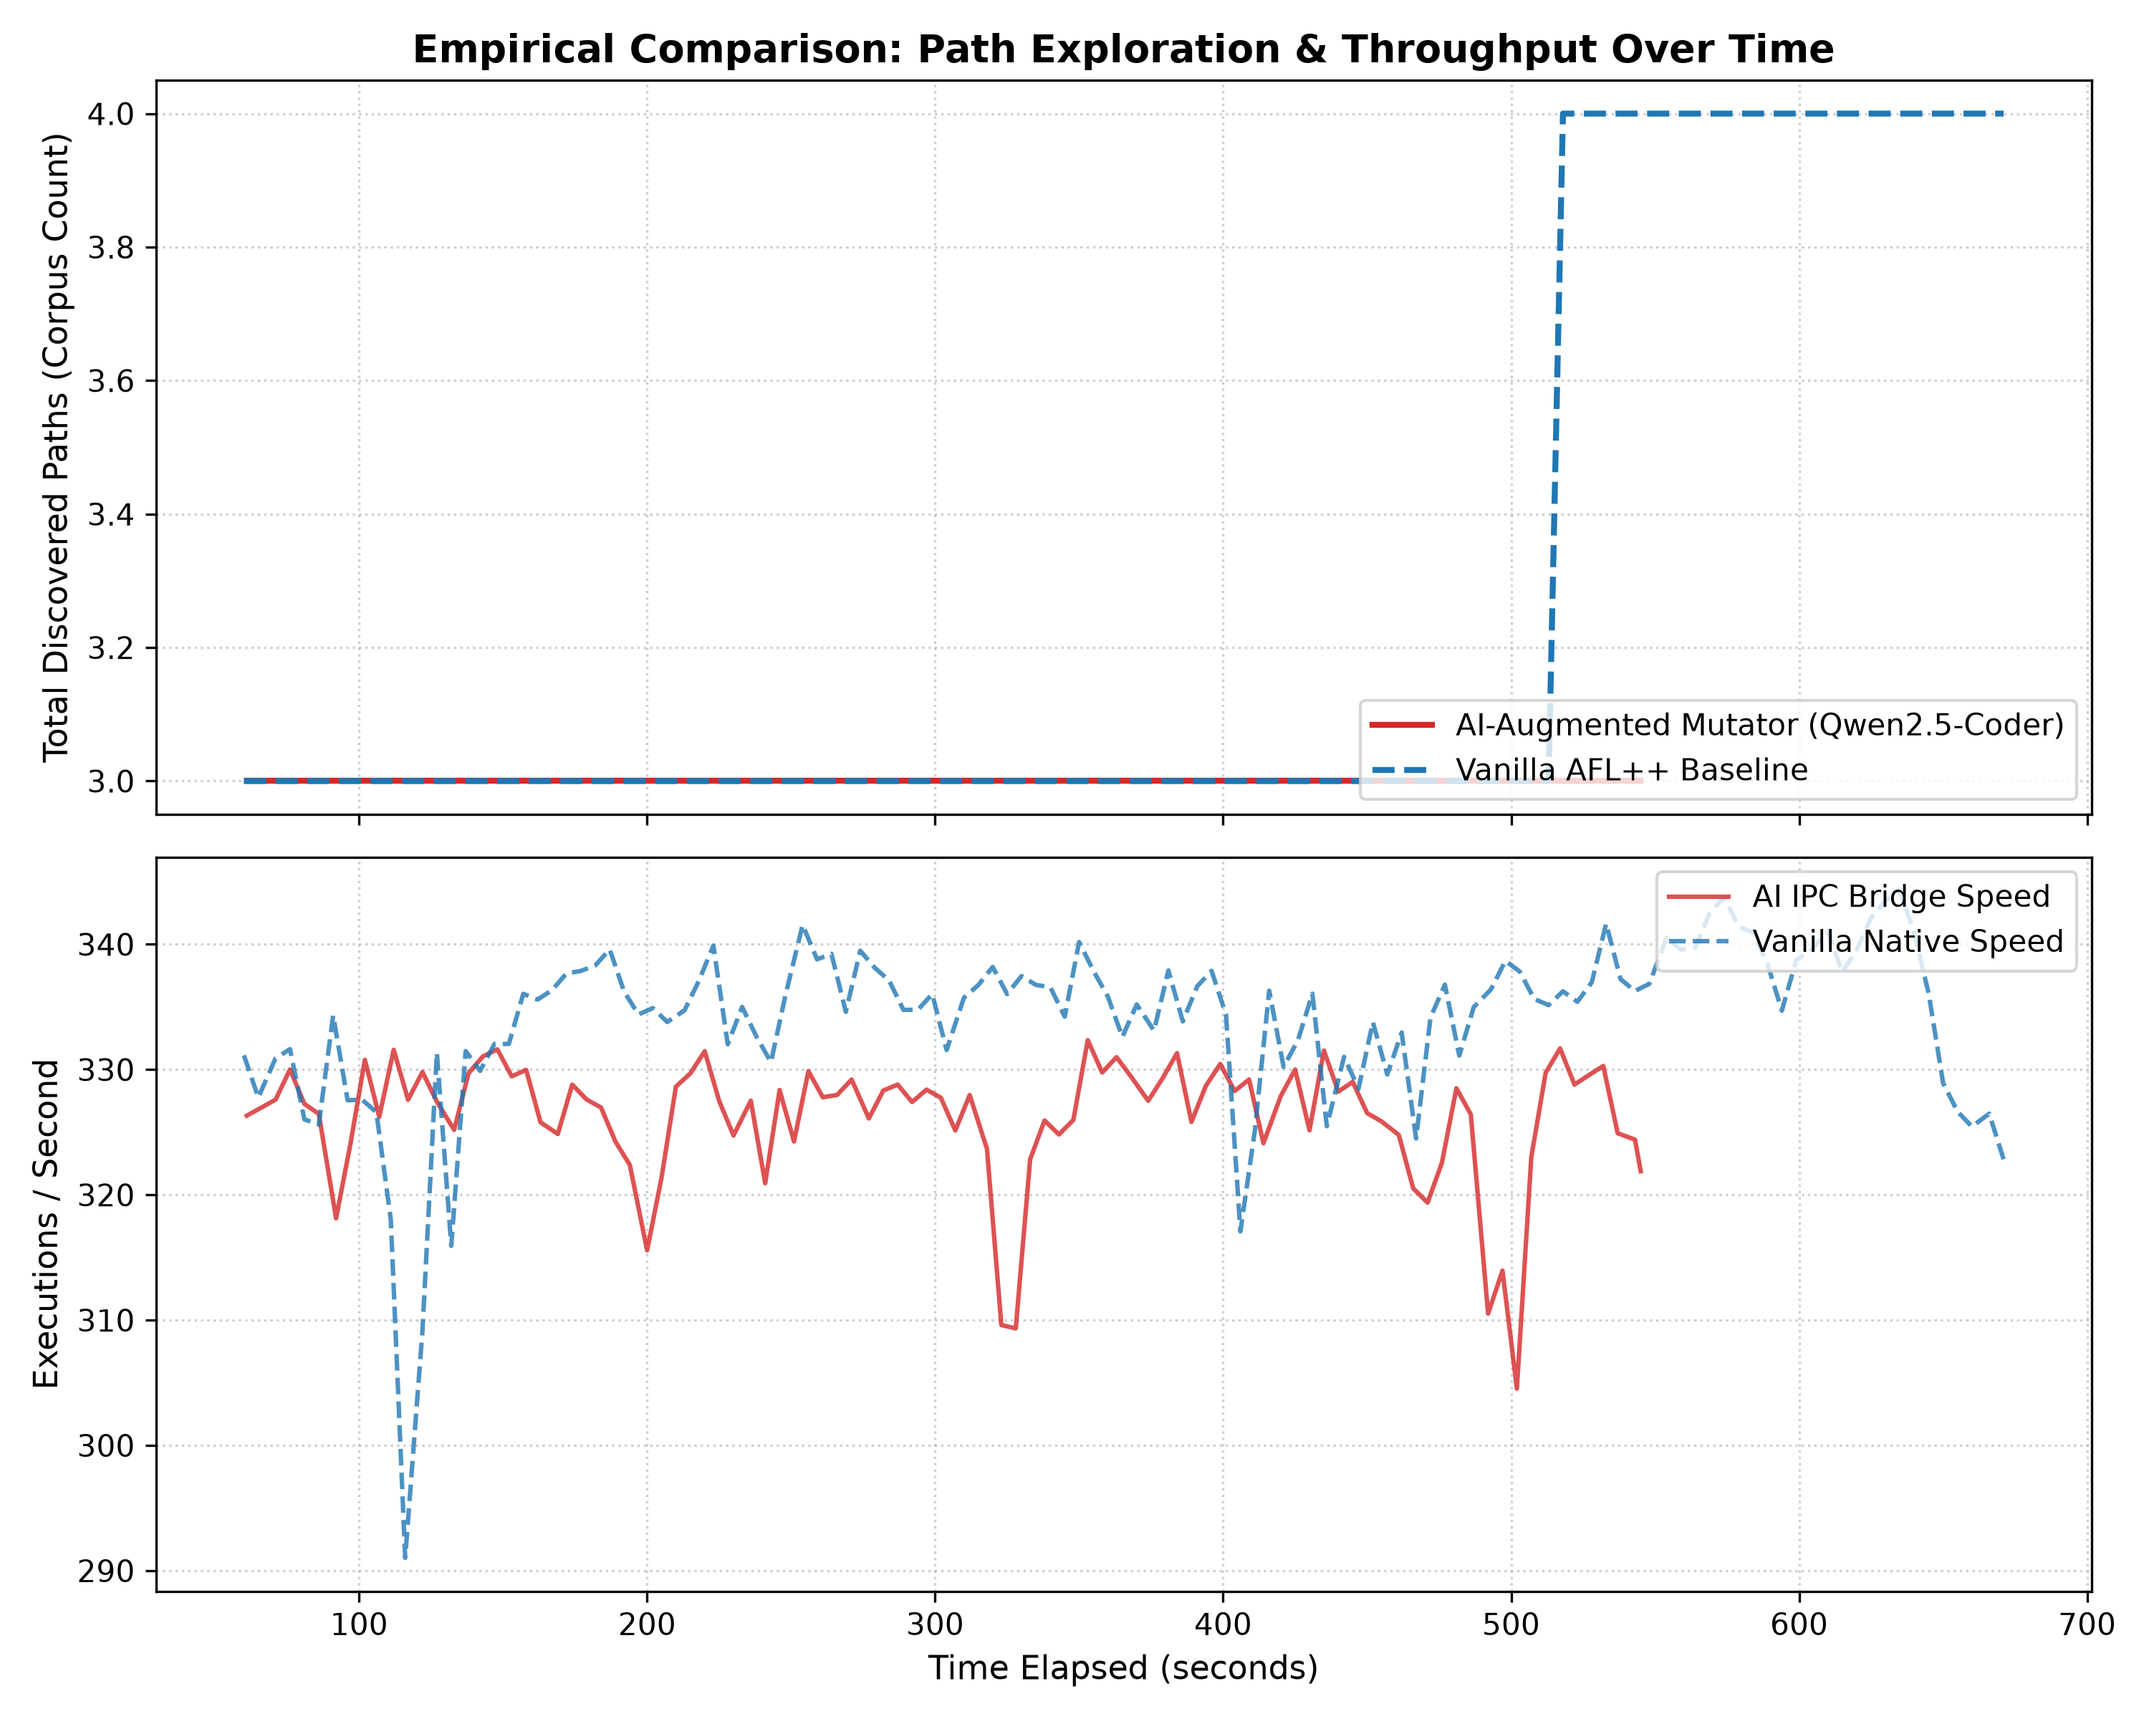
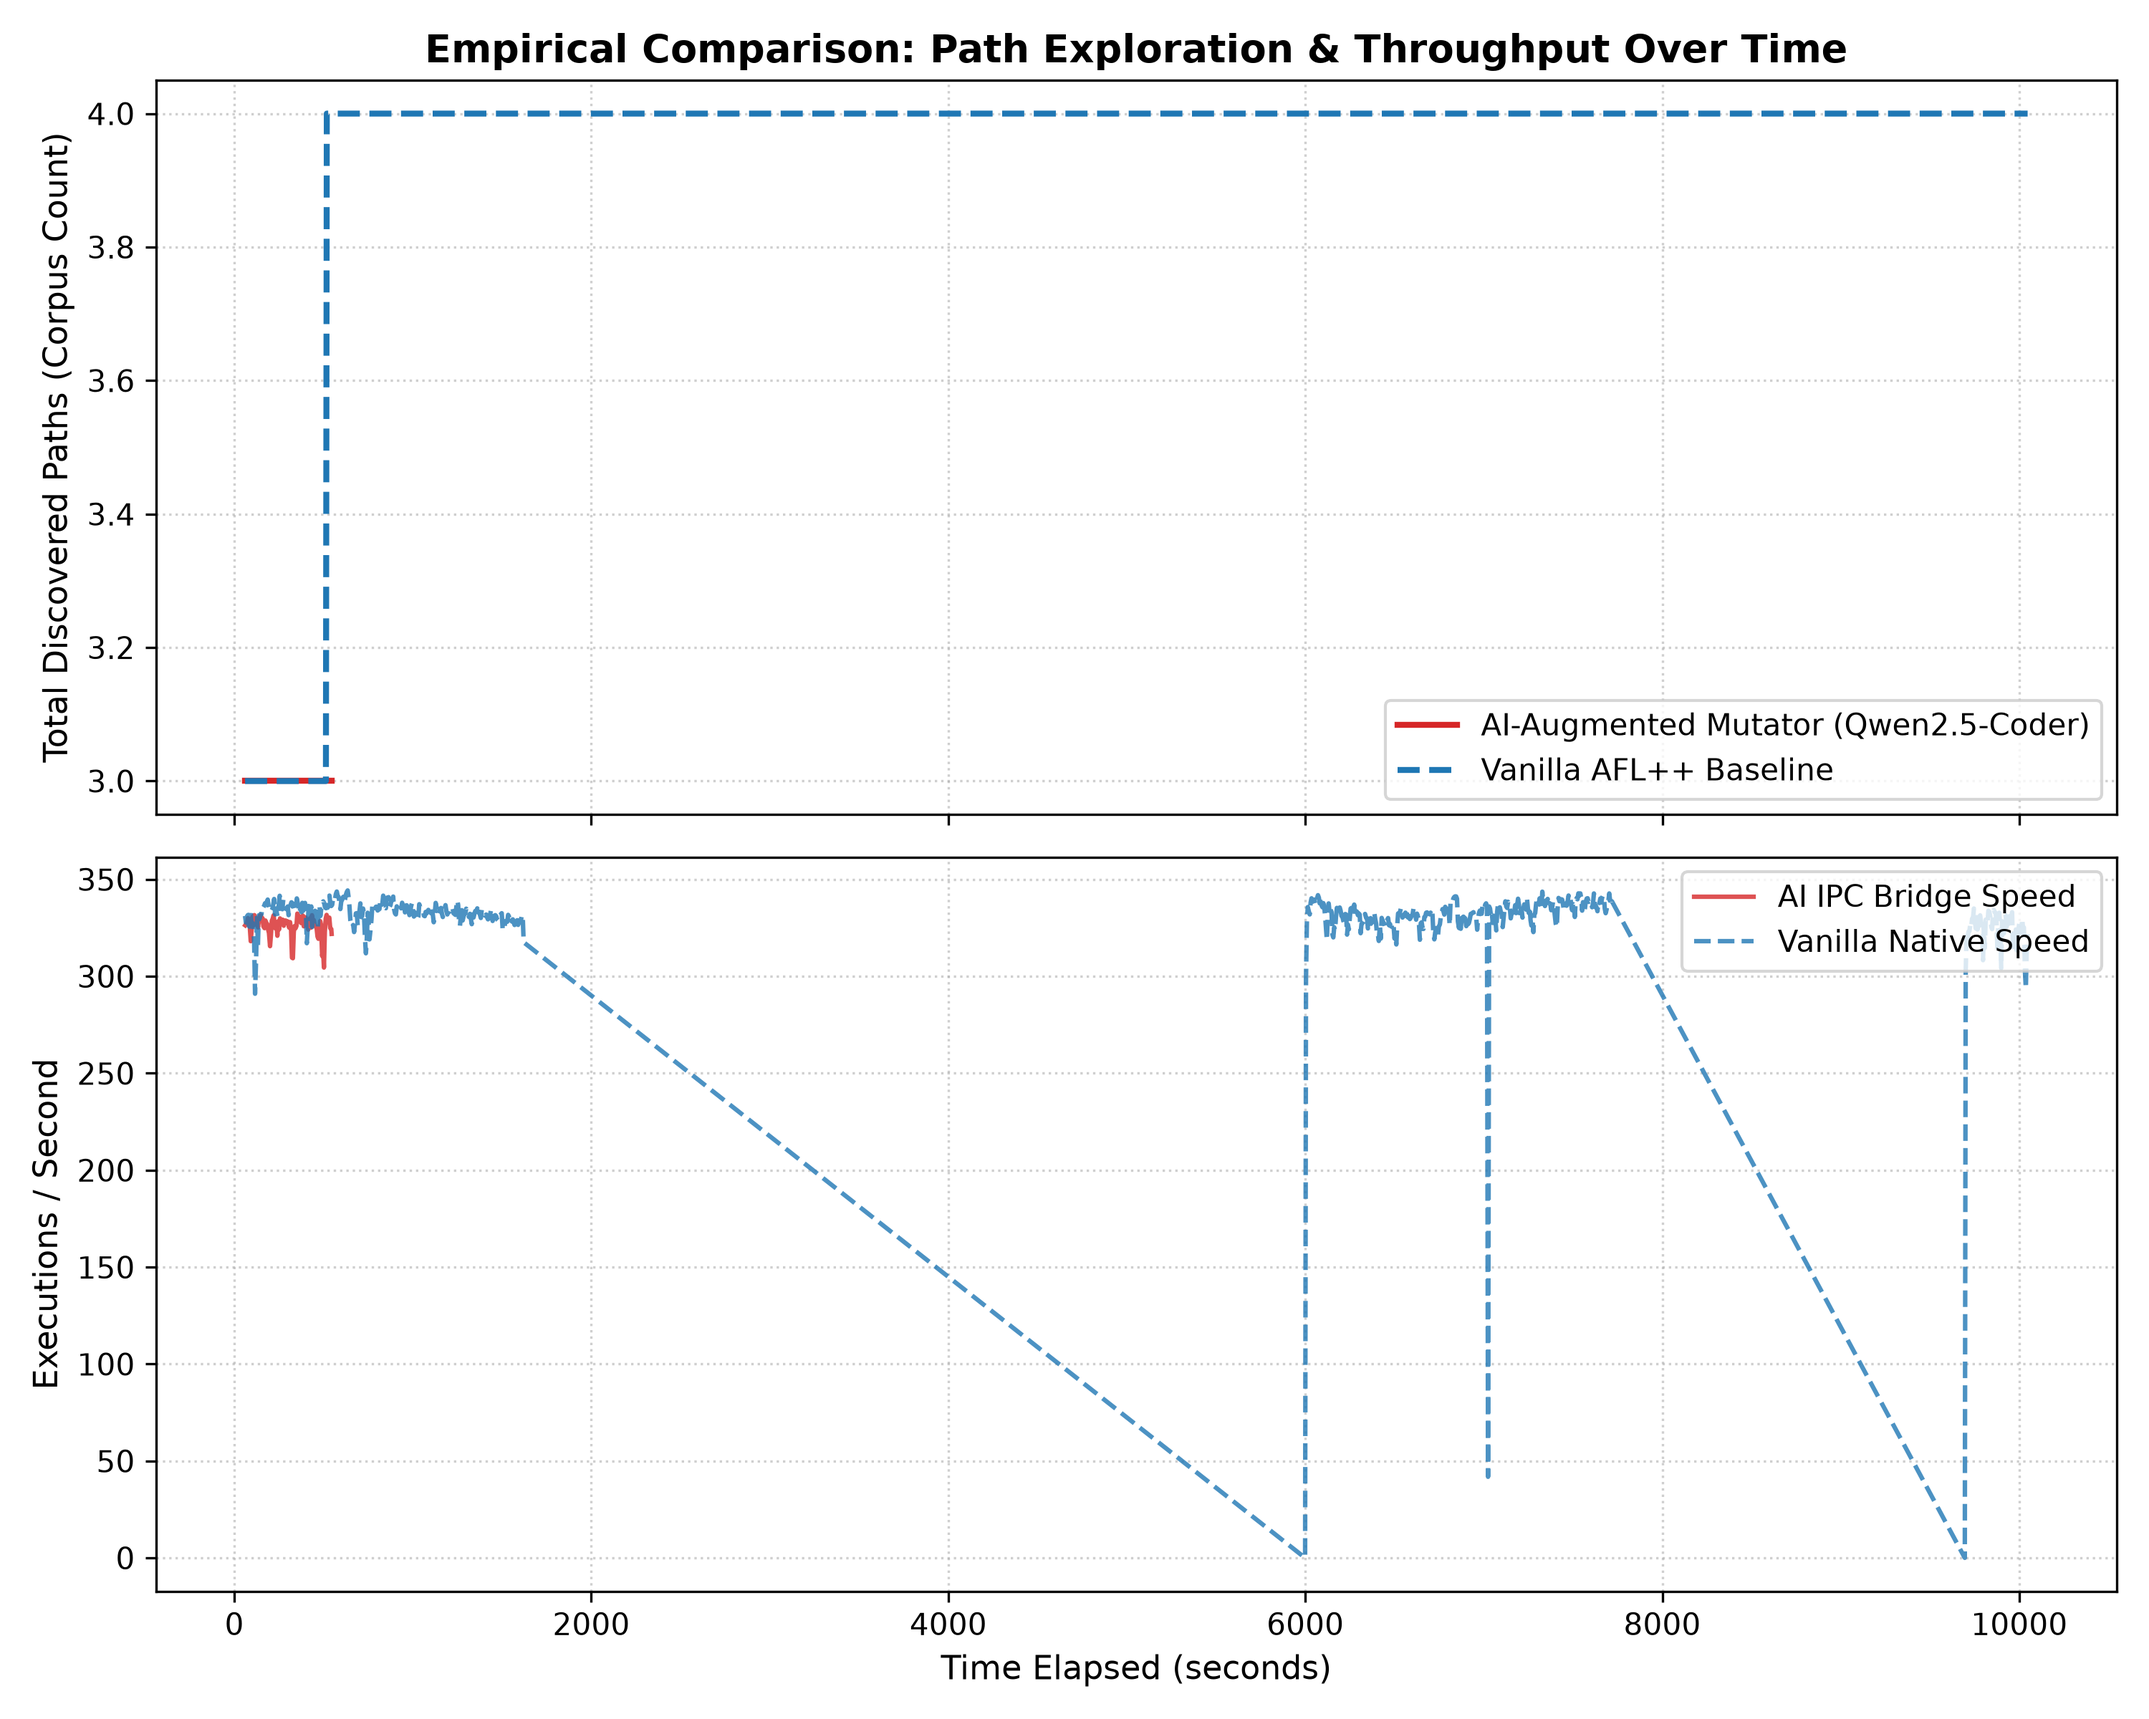
fuzz 4

diff --git a/fuzz_lab3_ai_bridge/llm_daemon.py b/fuzz_lab3_ai_bridge/llm_daemon.py
@@ -1,11 +1,15 @@
 import socket
 import os
 import struct
-import random
-import time
+import json
+import urllib.request
 import threading
+import time
 
 SOCKET_PATH = "/tmp/llm_bridge.sock"
+OLLAMA_API_URL = "http://localhost:11434/api/generate"
+MODEL_NAME = os.getenv("LLM_MODEL", "qwen2.5-coder:7b")
+CONSTRAINTS_FILE = "extracted_constraints.json"
 
 if os.path.exists(SOCKET_PATH):
     os.remove(SOCKET_PATH)
@@ -17,37 +21,74 @@ server.listen(5)
 seed_pool = []
 pool_lock = threading.Lock()
 
-def llm_synthesis_worker():
-    """
-    Background Worker: Mensimulasikan/memanggil generator LLM 
-    untuk memproduksi batch variasi biner terstruktur secara kontinu.
-    """
-    print("[+] Background LLM Generator Worker started.")
+def load_compiler_constraints():
+    """Muat metadata konstanta hasil ekstraksi LLVM Pass."""
+    if not os.path.exists(CONSTRAINTS_FILE):
+        return [], []
+    with open(CONSTRAINTS_FILE, "r") as f:
+        data = json.load(f)
+        return data.get("extracted_integers", []), data.get("hex_tokens", [])
+
+extracted_ints, extracted_hex = load_compiler_constraints()
+print(f"[+] Loaded Compiler Feedback: {len(extracted_ints)} integers, {len(extracted_hex)} hex tokens")
+
+# Konstruksi prompt dinamis berbasis hasil analisis LLVM Pass
+DYNAMIC_PROMPT = f"""You are an automated fuzzing mutation engine guided by compiler analysis.
+Target binary constraints extracted via LLVM Pass:
+- Magic/Hex tokens found in IR: {extracted_hex}
+- Critical integer bounds/branches: {extracted_ints}
+
+Generate a binary payload matching these rules:
+1. "magic": "PACK"
+2. "version": 2
+3. "chunk_count": Pick an integer <= 16 from the bounds.
+4. "payload_hex": Hex string of bytes to copy. To trigger heap overflow, payload length MUST be strictly greater than (chunk_count * 16). Inject hex tokens {extracted_hex} at the start of payload.
+
+Output ONLY a JSON object:
[1 lines of base64/hex data omitted]
+"""
+
+def query_ollama_for_seed():
+    payload = {
+        "model": MODEL_NAME,
+        "prompt": DYNAMIC_PROMPT,
+        "stream": False,
+        "format": "json"
+    }
+    try:
+        req = urllib.request.Request(
+            OLLAMA_API_URL,
+            data=json.dumps(payload).encode('utf-8'),
+            headers={'Content-Type': 'application/json'}
+        )
+        with urllib.request.urlopen(req, timeout=6.0) as resp:
+            data = json.loads(resp.read().decode('utf-8'))
+            res = json.loads(data.get("response", "{}"))
+            
+            chunk_count = int(res.get("chunk_count", 1))
+            payload_hex = res.get("payload_hex", "7f45" + "41" * 32)
+            payload_bytes = bytes.fromhex(payload_hex.strip())
+            
+            header = struct.pack("<4sBHH", b"PACK", 0x02, chunk_count, len(payload_bytes))
+            return header + payload_bytes
+    except Exception as e:
+        return None
+
+def llm_worker():
+    print(f"[+] LLM Producer Active with model: {MODEL_NAME}")
     while True:
-        if len(seed_pool) < 20:
-            batch = []
-            for _ in range(10):
-                magic = b"PACK"
-                version = 0x02
-                
-                if random.random() < 0.4:
-                    chunks = random.randint(1, 2)
-                    p_len = (chunks * 16) + random.randint(16, 200)
-                    body = b"\x7FE" + b"A" * (p_len - 2)
-                else:
-                    chunks = random.randint(1, 8)
-                    p_len = chunks * 16
-                    body = os.urandom(p_len)
+        if len(seed_pool) < 15:
+            seed = query_ollama_for_seed()
+            if seed:
+                with pool_lock:
+                    seed_pool.append(seed)
+                print(f"[+] [Closed-Loop] Synthesized seed ({len(seed)} bytes) | Queue: {len(seed_pool)}")
+            else:
+                time.sleep(0.5)
+        else:
+            time.sleep(0.2)
 
-                header = struct.pack("<4sBHH", magic, version, chunks, p_len)
-                batch.append(header + body)
-
-            with pool_lock:
-                seed_pool.extend(batch)
-
-        time.sleep(0.05) 
-        
-threading.Thread(target=llm_synthesis_worker, daemon=True).start()
+threading.Thread(target=llm_worker, daemon=True).start()
 
 def handle_client(conn):
     while True:
@@ -55,21 +96,16 @@ def handle_client(conn):
             req = conn.recv(1024)
             if not req:
                 break
-            
             payload = None
             with pool_lock:
                 if seed_pool:
                     payload = seed_pool.pop(0)
-
-            if payload:
-                conn.sendall(payload)
-            else:
-                conn.sendall(b"EMPTY")
+            conn.sendall(payload if payload else b"EMPTY")
         except Exception:
             break
     conn.close()
 
-print(f"[*] LLM Daemon listening on {SOCKET_PATH}...")
+print(f"[*] Closed-Loop IPC Daemon listening on {SOCKET_PATH}...")
 while True:
     conn, _ = server.accept()
     threading.Thread(target=handle_client, args=(conn,), daemon=True).start()

diff --git a/fuzz_lab3_ai_bridge/benchmark_plot.py b/fuzz_lab3_ai_bridge/benchmark_plot.py
@@ -1,5 +1,7 @@
 import os
 import csv
+import matplotlib
+matplotlib.use('Agg')  # Headless backend (mencegah crash GUI/GDK)
 import matplotlib.pyplot as plt
 
 def parse_afl_plot_data(filepath):
@@ -41,6 +43,7 @@ vanilla_data = parse_afl_plot_data("out_vanilla/default/plot_data")
 
 fig, (ax1, ax2) = plt.subplots(2, 1, figsize=(10, 8), sharex=True)
 
+# Plot 1: Cumulative Path Discovery
 if ai_data and ai_data['time']:
     ax1.plot(ai_data['time'], ai_data['paths'], label='AI-Augmented Mutator (Qwen2.5-Coder)', color='#d62728', linewidth=2)
 if vanilla_data and vanilla_data['time']:
@@ -51,6 +54,7 @@ ax1.set_title('Empirical Comparison: Path Exploration & Throughput Over Time', f
 ax1.legend(loc='lower right')
 ax1.grid(True, linestyle=':', alpha=0.6)
 
+# Plot 2: Throughput
 if ai_data and ai_data['time']:
     ax2.plot(ai_data['time'], ai_data['speed'], label='AI IPC Bridge Speed', color='#d62728', alpha=0.8)
 if vanilla_data and vanilla_data['time']:
@@ -63,4 +67,4 @@ ax2.grid(True, linestyle=':', alpha=0.6)
 
 plt.tight_layout()
 plt.savefig('benchmark_result.png', dpi=300)
-print("[+] Enhanced benchmark plot successfully generated: benchmark_result.png")
+print("[+] Clean benchmark plot saved to benchmark_result.png")
